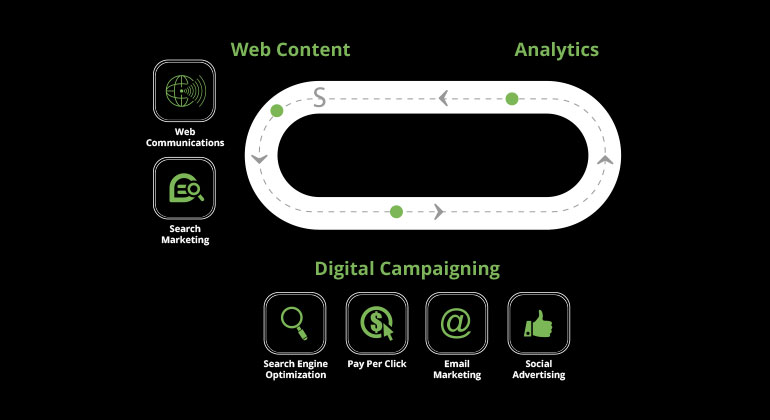
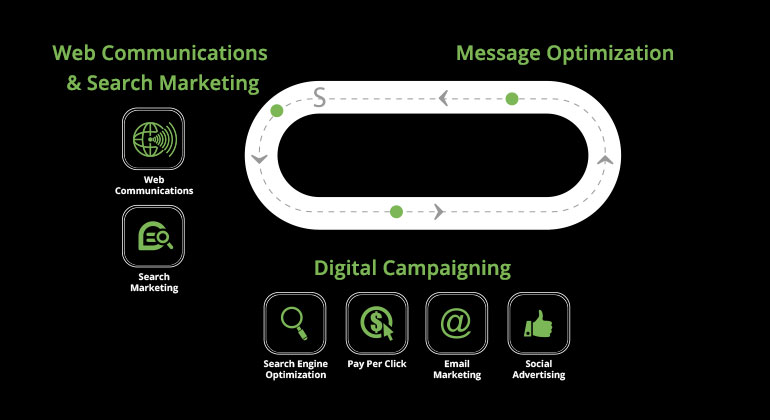
Final deployed version with video playback

Changed region(s): [[0.0623, 0.0929, 0.4675, 0.7119], [0.5922, 0.0929, 0.8727, 0.1548], [0.4052, 0.619, 0.6857, 0.681]]

diff --git a/deploy/js/roadshowData.js b/deploy/js/roadshowData.js
@@ -30,7 +30,7 @@ var slideArray = [
         	{id: 'tricia_larson'}
         ],
         orgChart: {
-          url: 'https://neo.pearson.com/people/UCURTCH/people?filterID=orgchart'
+          url: 'https://neo.pearson.com/docs/DOC-313053'
         }
       },
       {  id: 'pm_why',
@@ -74,13 +74,13 @@ var slideArray = [
         },
         contentTemplate: 'content_who_we_are',
         directReports: [
-        	{id: 'amy_cox'},
-        	{id: 'dede_eschen'},
-        	{id: 'janna_dinolfo'},
-        	{spacer: true},
-        	{id: 'joanne_foster'},
         	{id: 'shawn_humphrey'},
-        	{id: 'valerie_vallejo'},
+        	{id: 'joanne_foster'},
+        	{id: 'tim_wilson'},
+        	{spacer: true},
+        	{id: 'suzie_nielsen'},
+        	{id: 'janna_dinolfo'},
+        	{id: 'dede_eschen'}
         ],
         orgChart: {
           url: 'https://neo.pearson.com/people?filterID=orgchart&orgUser=pescke'
@@ -90,14 +90,14 @@ var slideArray = [
         title: 'What We\'ve Done',
         contentTemplate: 'content_default',
         gridItems: [
-          {id: 'done/higher_ed_forum',      template: 'partials/modal_content.html', caption: 'Higher Ed Forum'},
-          {id: 'done/online_learning_con',  template: 'partials/modal_content.html', caption: 'Online Learning Conference'},
-          {id: 'done/powerschool_uni',      template: 'partials/modal_content.html', caption: 'PowerSchool University'}, 
-          {id: 'done/phit',                 template: 'partials/modal_content.html', caption: 'PHIT - Information Technology'},
-          {id: 'done/iphase',               template: 'partials/modal_content.html', caption: 'PHASE - Accounting'}, 
-          {id: 'done/siop_14',              template: 'partials/modal_content.html', caption: 'SIOP - 14'},
-          {id: 'done/three_conference',     template: 'partials/modal_content.html', caption: 'Three Conference'},
-          {id: 'done/psu_uni_tech',         template: 'partials/modal_content.html', caption: 'PSU Pearson Techs'}
+          {id: 'done/parcc',                  template: 'partials/modal_content.html', caption: 'PARCC'},
+          {id: 'done/cite_2015',              template: 'partials/modal_content.html', caption: 'Online Learning Conference'},
+          {id: 'done/powerschool_uni',        template: 'partials/modal_content.html', caption: 'PowerSchool University'}, 
+          {id: 'done/phit',                   template: 'partials/modal_content.html', caption: 'PHIT - Information Technology'},
+          {id: 'done/iphase',                 template: 'partials/modal_content.html', caption: 'PHASE - Accounting'}, 
+          {id: 'done/siop_14',                template: 'partials/modal_content.html', caption: 'SIOP - 14'},
+          {id: 'done/three_conference',       template: 'partials/modal_content.html', caption: 'Three Conference'},
+          {id: 'done/pearson_meeting_center', template: 'partials/modal_content.html', caption: 'Pearson Meeting Center'}
         ]
       },
       { id: 'events_why',
@@ -150,8 +150,13 @@ var slideArray = [
         title: 'What We\'ve Done',
         contentTemplate: 'content_default',
         gridItems: [
-          {id: 'done/iste_booth_01', template: 'partials/modal_content.html', caption: 'ISTE Booth 2014'},
-          {id: 'done/iste_booth_02', template: 'partials/modal_content.html', caption: 'ISTE Booth 2014'}
+          {id: 'done/iste_booth_01',    template: 'partials/modal_content.html', caption: 'ISTE Booth 2014'},
+          {id: 'done/iste_booth_02',    template: 'partials/modal_content.html', caption: 'ISTE Booth 2014'},
+          {id: 'done/asha_2013',        template: 'partials/modal_content.html', caption: 'ASHA 2013'},
+        	{spacer: true},
+          {id: 'done/educause_2014_ad', template: 'partials/modal_content.html', caption: 'Educause 2014 Ad'},
+          {id: 'done/apscu_2014',       template: 'partials/modal_content.html', caption: 'APSCU 2014'},
+          {id: 'done/sxsw',             template: 'partials/modal_content.html', caption: 'SXSW'}
         ]
       },
       {  id: 'k20cm_workwithus',
@@ -176,9 +181,9 @@ var slideArray = [
         bodyCopy: '<p>We create campaigns that tell the Pearson K-20 story and build our brand while increasing awareness of Pearson offerings, driving leads and sales, and improving marketing ROI through analysis and message optimization. From Web Communication to eCRM, SEO and SEM to Analytics, we do it all, working to provide you a sound solution to your challenges.</p>',
         gridItems: [
           {id: 'do/overview',               template: 'partials/modal_content.html', caption: 'Overview'},
-          {id: 'do/web_content',            template: 'partials/modal_content.html', caption: 'Web Content'},
+          {id: 'do/web_content',            template: 'partials/modal_content.html', caption: 'Web Communications & Search Marketing'},
           {id: 'do/digital_campaigning', 	  template: 'partials/modal_content.html', caption: 'Digital Campaigning'}, 
-          {id: 'do/analytics_optimization', template: 'partials/modal_content.html', caption: 'Analytics Optimization'}
+          {id: 'do/analytics_optimization', template: 'partials/modal_content.html', caption: 'Message Optimization'}
         ]
       },
       { id: 'dc_whoweare',
@@ -349,9 +354,10 @@ var slideArray = [
         directReports: [
         	{id: 'bill_delehant'},
         	{id: 'david_busch'},
-          {spacer: true},
+        	{id: 'scott_turner'},
           {spacer: true},
         	{id: 'seth_diehl'},
+        	{id: 'tammara_baker'},
         	{id: 'tom_tate'},
         ],
         orgChart: {
@@ -363,12 +369,12 @@ var slideArray = [
         contentTemplate: 'content_default',
         bodyCopy: '',
         gridItems: [
-          {id: 'done/school_of_thought',         template: 'partials/modal_content.html', caption: 'School of Thought',         modalBody: '<h4>School of Thought - 3 part video series</h4><ul><li>Client: Center for eLearning</li><li>2014 Beacon Award finalist</li><li>25,000+ YouTube views</li></ul><p>Concepting, storyboards, video, casting, locations, permits, animation/motion graphics, editing, green screen compositing, 3D modeling & animation, sound track</p>', modalLink: 'https://www.youtube.com/watch?v=7idyNIvVCis'},
-          {id: 'done/future_vision',             template: 'partials/modal_content.html', caption: 'Future Vision',             modalBody: '<h4>A Vision for Personalized and Connected Learning</h4><ul><li>Client: Sales & Marketing, NA</li><li>16,500+ YouTube views</li></ul><p>Concepting, storyboards, video, casting, locations, animation/motion graphics, editing, green screen compositing, sound track</p>', modalLink: 'https://www.youtube.com/watch?v=ysdPO6Kur_I'}, 
-          {id: 'done/teaching_in_a_digital_age', template: 'partials/modal_content.html', caption: 'Teaching in a Digital Age', modalBody: '<h4>Teaching in a Digital Age - multi-part series</h4><ul><li>Client: Research & Innovation Network</li></ul><p>Video, locations, shoot coordination, animation/motion graphics, editing, sound track</p>', modalLink: 'https://www.youtube.com/watch?v=hqteWvrxuy4'},
+          {id: 'done/school_of_thought',         template: 'partials/modal_content.html', caption: 'School of Thought',         modalBody: '<h4>School of Thought - 3 part video series</h4><ul><li>Client: Center for eLearning</li><li>2014 Beacon Award finalist</li><li>25,000+ YouTube views</li></ul><p>Concepting, storyboards, video, casting, locations, permits, animation/motion graphics, editing, green screen compositing, 3D modeling & animation, sound track</p>', videoSrc: '//www.youtube.com/embed/7idyNIvVCis'},
+          {id: 'done/future_vision',             template: 'partials/modal_content.html', caption: 'Future Vision',             modalBody: '<h4>A Vision for Personalized and Connected Learning</h4><ul><li>Client: Sales & Marketing, NA</li><li>16,500+ YouTube views</li></ul><p>Concepting, storyboards, video, casting, locations, animation/motion graphics, editing, green screen compositing, sound track</p>', videoSrc: '//www.youtube.com/embed/ysdPO6Kur_I'}, 
+          {id: 'done/teaching_in_a_digital_age', template: 'partials/modal_content.html', caption: 'Teaching in a Digital Age', modalBody: '<h4>Teaching in a Digital Age - multi-part series</h4><ul><li>Client: Research & Innovation Network</li></ul><p>Video, locations, shoot coordination, animation/motion graphics, editing, sound track</p>', videoSrc: '//www.youtube.com/embed/hqteWvrxuy4'},
           {spacer: true},
-          {id: 'done/breakthrough_commercial',   template: 'partials/modal_content.html', caption: 'Breakthrough Commercial',   modalBody: '<h4>Breakthrough Commercial</h4><ul><li>Client: Sales & Marketing, NA</li><li>4,000+ YouTube views</li></ul><p>Video, animation/motion graphics, voice-over, editing, sound track</p>', modalLink: 'http://www.youtube.com/watch?v=EbNKuVpGZ18'},
-          {id: 'done/a_serious_talk',            template: 'partials/modal_content.html', caption: 'A Serious Talk',            modalBody: '<h4>A Serious Talk</h4><ul><li>Client: A&I Marketing</li><li>10,500+ YouTube views</li></ul><p>Concepting, scripting, storyboards, video, casting, locations, editing, sound track</p>', modalLink: 'https://www.youtube.com/watch?v=v0pZE8WW_Ro'}, 
+          {id: 'done/breakthrough_commercial',   template: 'partials/modal_content.html', caption: 'Breakthrough Commercial',   modalBody: '<h4>Breakthrough Commercial</h4><ul><li>Client: Sales & Marketing, NA</li><li>4,000+ YouTube views</li></ul><p>Video, animation/motion graphics, voice-over, editing, sound track</p>', videoSrc: '//www.youtube.com/embed/EbNKuVpGZ18'},
+          {id: 'done/a_serious_talk',            template: 'partials/modal_content.html', caption: 'A Serious Talk',            modalBody: '<h4>A Serious Talk</h4><ul><li>Client: A&I Marketing</li><li>10,500+ YouTube views</li></ul><p>Concepting, scripting, storyboards, video, casting, locations, editing, sound track</p>', videoSrc: '//www.youtube.com/embed/v0pZE8WW_Ro'}, 
           {id: 'done/nsm14_opening_video',       template: 'partials/modal_content.html', caption: 'NSM 2014 Opening Video',    modalBody: '<h4>Nation Sales Meeting Opening Video 2014</h4><ul><li>Client: Sales & Marketing, NA</li></ul><p>Concepting, scripting, storyboards, animation/motion graphics, sound track</p>'}
         ]
       },
@@ -392,7 +398,8 @@ var marcommWhatWeDo = {
 	level: 'titleSlideLevel',
 	geography: 'North America',
   contentTemplate: 'content_default',
-	bodyCopy: '<br/><h2>Creativity is 1% inspiration<br/> and 99% perspiration.</h2>'
+  auxClass: 'whatWeDoRobin',
+	bodyCopy: '<br/><br/><br/><h2>Thomas Edison said, <br/><em>“Genius is 1% inspiration<br/>and 99% perspiration.”</em></h2>'
 };
 
 var marcommWhoWeAre = {  
@@ -417,7 +424,7 @@ var marcommWhoWeAre = {
     {id: 'kevin_young'},
     {id: 'michelle_maloof'}
   ],
-  bodyCopy: '<br/><p><em>The power of <br/>creativity at work!</em></p>',
+  bodyCopy: '<br/><p><em>The power of <br/>inspiration at work!</em></p>',
   orgChart: {
     url: 'https://neo.pearson.com/people?filterID=orgchart&orgUser=BROPRO'
   },

diff --git a/deploy/css/roadshow.css b/deploy/css/roadshow.css
@@ -414,7 +414,7 @@ li {
 }
 /* line 215, ../sass/_slides.scss */
 .slide .slideWrapper.sectionTitleSlide .slideCover .sectionIcon {
-  border-width: 12px;
+  border-width: 16px;
   border-radius: 100px;
   width: 600px;
   height: 600px;
@@ -828,7 +828,13 @@ li {
   cursor: pointer;
 }
 
-/* line 594, ../sass/_slides.scss */
+/* line 593, ../sass/_slides.scss */
+.whatWeDoRobin .bodyCopy {
+  width: 100%;
+  text-align: center;
+}
+
+/* line 600, ../sass/_slides.scss */
 .whoWeAreRobin .bodyCopy {
   position: absolute !important;
   top: 440px;
@@ -865,7 +871,7 @@ li {
   background-color: #000;
 }
 /* line 23, ../sass/_modal.scss */
-.ngdialog-content .table .td.imgCell img {
+.ngdialog-content .table .td.imgCell img, .ngdialog-content .table .td.imgCell iframe {
   margin: 2em 0;
 }
 /* line 26, ../sass/_modal.scss */
@@ -917,6 +923,11 @@ li {
 /* line 62, ../sass/_modal.scss */
 .ngdialog-content .table .td.captionCell .modalBody ul li {
   margin-left: 2em;
+}
+/* line 66, ../sass/_modal.scss */
+.ngdialog-content .table .td.captionCell .modalBody iframe {
+  width: 100%;
+  max-height: 420px;
 }
 
 /* line 143, ../sass/roadshow.scss */

diff --git a/deploy/js/roadshow.js b/deploy/js/roadshow.js
@@ -9,6 +9,8 @@ roadshow.MainCtrl = function($scope, $timeout, $sce, $compile, ngDialog) {
 	$scope.initalScale = 1;
 	$scope.childScale = 0.24;
 	$scope.topLevelLength = 7;
+	$scope.modalContentWidth = 770;
+	$scope.modalContentHeight = 420;
 	$scope.slides = [];
 	$scope.ready = false;
 	
@@ -299,7 +301,15 @@ roadshow.MainCtrl = function($scope, $timeout, $sce, $compile, ngDialog) {
 		$scope.modalContentSrc = item.contentSrc;
 		$scope.modalCaption = item.caption;
 		$scope.modalBodyCopy = item.modalBody;
-		$scope.modalLink = item.modalLink;
+		if (item.videoSrc) {
+			$scope.modalContentType = "video";
+			$scope.modalVideoSrc =  $sce.trustAsResourceUrl(item.videoSrc);
+		} else if (item.linkSrc) {
+			$scope.modalContentType = "link";
+			$scope.modalLinkURL = item.linkURL;
+		} else {
+			$scope.modalContentType = "static";
+		}
 		$scope.modalOpen = true;
 		var content = $compile("<div ng-include=" + item.template + "></div>");
 		$scope.modal = ngDialog.open({

diff --git a/deploy/partials/modal_content.html b/deploy/partials/modal_content.html
@@ -1,8 +1,11 @@
 <div class="table">
 	<div class="tr">
 		<div class="td centerBoth imgCell">
-			<a href="{{modalLink}}" target="_blank" ng-show="modalLink"><img src="{{modalContentSrc}}"/></a>
-			<span ng-hide="modalLink"><img src="{{modalContentSrc}}"/></span>
+			<div ng-switch="modalContentType">
+				<iframe ng-switch-when="video" width="{{modalContentWidth}}" height="{{modalContentHeight}}" src="{{modalVideoSrc}}"></iframe>
+				<a ng-switch-when="link" href="{{modalLinkURL}}" target="_blank"><img src="{{modalContentSrc}}"/></a>
+				<span ng-switch-default><img src="{{modalContentSrc}}"/></span>
+			</div>
 		</div>
 	</div>	
 	<div class="tr" ng-show="modalCaption">

diff --git a/deploy/sass/_modal.scss b/deploy/sass/_modal.scss
@@ -20,7 +20,7 @@
       &.imgCell {
         width: 100%;
         background-color: #000;
-        img {
+        img, iframe {
           margin: 2em 0;
         }
         a:hover {
@@ -62,6 +62,10 @@
             li {
               margin-left: 2em;
             }
+          }
+          iframe {
+            width: 100%;
+            max-height: 420px;
           }
         }
       }

diff --git a/deploy/sass/_slides.scss b/deploy/sass/_slides.scss
@@ -213,7 +213,7 @@
       }
       .slideCover {
         .sectionIcon {
-          border-width: 12px;
+          border-width: 16px;
           border-radius: 100px;
           width: 600px;
           height: 600px;
@@ -589,6 +589,12 @@
 }
 
 // Special case aux classes
+.whatWeDoRobin {
+  .bodyCopy {
+    width: 100%;
+    text-align: center;
+  }
+}
 
 .whoWeAreRobin {
   .bodyCopy {
